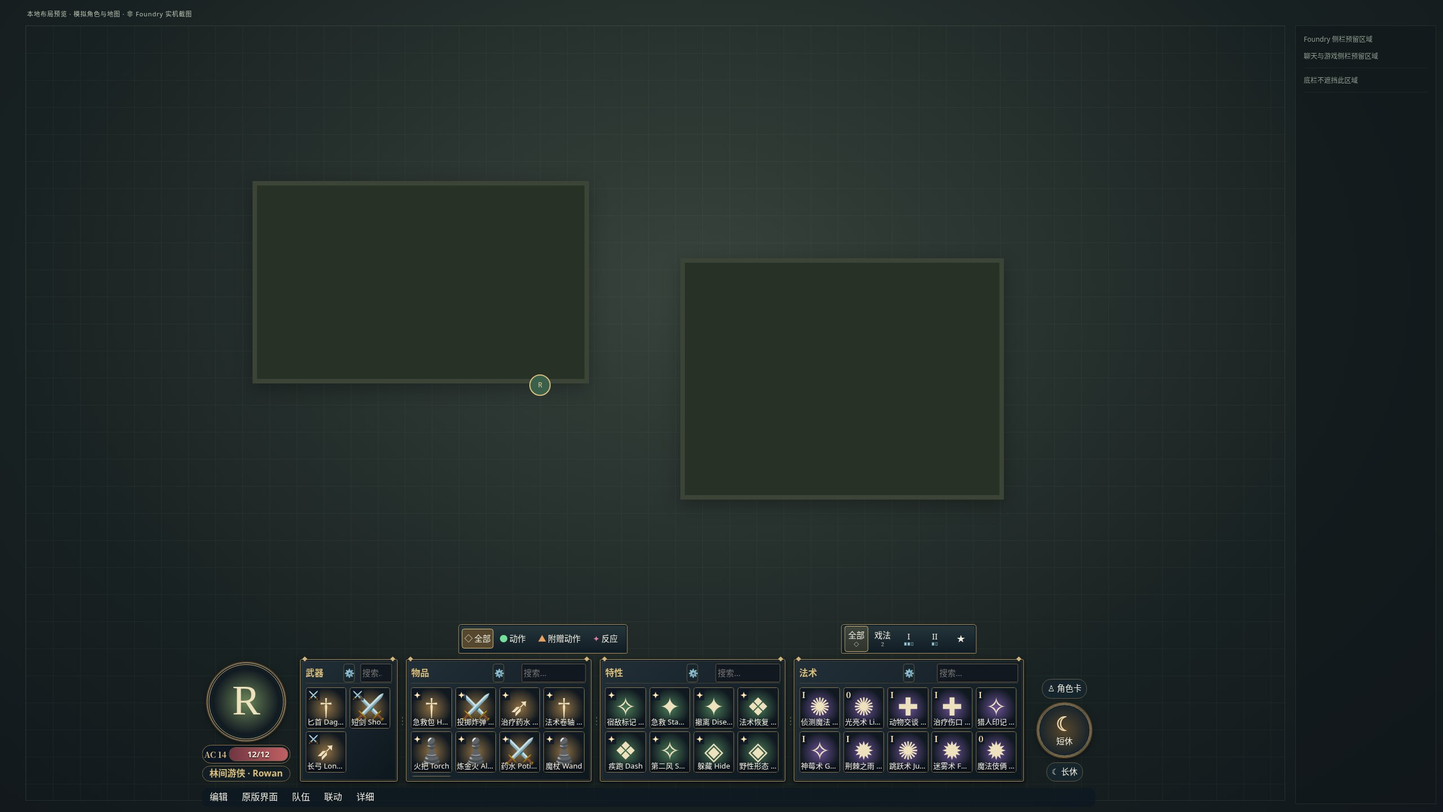
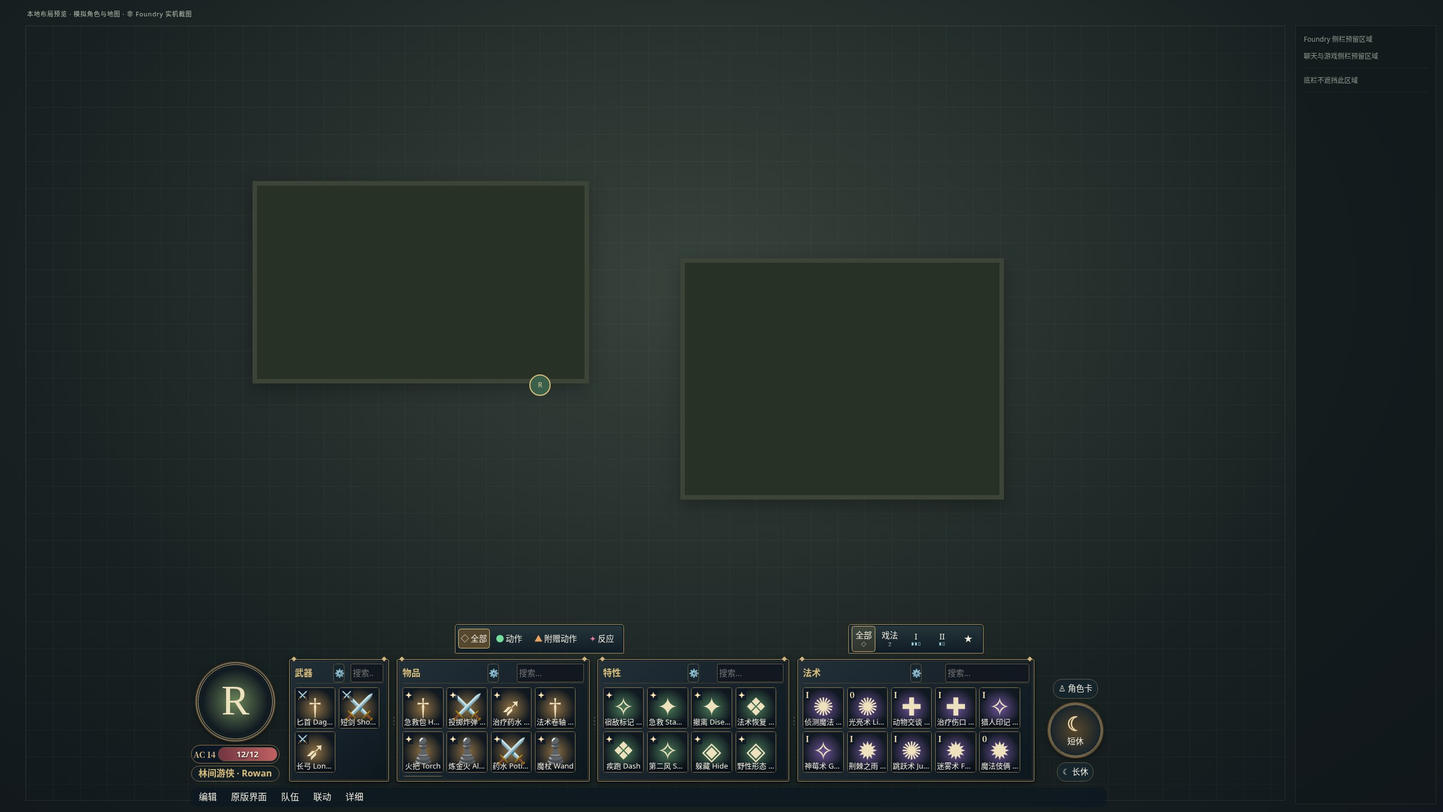
fix: preserve viewport HUD width for sparse actor contents

Changed region(s): [[0.125, 0.7812, 0.7812, 1.0], [0.5625, 0.75, 0.625, 0.8125]]

diff --git a/tests/reference-browser.js b/tests/reference-browser.js
@@ -62,7 +62,7 @@ export async function referenceBrowserTests({ test, assert, equal, flush }) {
         equal(user.writes.length, writes);
       } finally { delete entry.img; hud.tooltip.hide(); hud.render(); }
     });
-    await test('automatic widths follow actor counts, shrink sparse content and stay stable through search and action/level filters without writes', async () => {
+    await test('automatic widths follow actor counts while total width stays fixed for sparse content, inventory updates and filters without writes', async () => {
       const make = (id, itemCount, spellCount) => actor(id, [item('weapon', 'weapon'), item('feature', 'feat'),
         ...Array.from({ length: itemCount }, (_, i) => item(`item-${i}`, 'consumable', { activation: { type: 'action' } })),
         ...Array.from({ length: spellCount }, (_, i) => item(`spell-${i}`, 'spell', { level: i % 2 }))]);
@@ -72,9 +72,13 @@ export async function referenceBrowserTests({ test, assert, equal, flush }) {
         hud.setActor(make('many-items', 30, 1));
         let widths = sizes(); assert(widths[1] > widths[0] && widths[1] > widths[3]);
         const crowdedWidth = hud.root.getBoundingClientRect().width;
-        hud.setActor(make('few-items', 1, 1)); assert(hud.root.getBoundingClientRect().width < crowdedWidth);
+        hud.setActor(make('few-items', 1, 1)); assert(Math.abs(hud.root.getBoundingClientRect().width - crowdedWidth) < .6);
+        hud.setActor(actor('empty-character', []));
+        assert(Math.abs(hud.root.getBoundingClientRect().width - crowdedWidth) < .6);
+        assert(sizes().every(width => width > 0));
         hud.setActor(make('many-spells', 1, 30));
         widths = sizes(); assert(widths[3] > widths[1] && widths[3] > widths[0]);
+        assert(Math.abs(hud.root.getBoundingClientRect().width - crowdedWidth) < .6);
         hud.level = 1; hud.action = 'bonus'; hud.queries.Items = 'no match'; hud.render();
         sizes().forEach((width, i) => assert(Math.abs(width - widths[i]) < .6));
         // A live inventory change in the same actor must grow the appropriate group.
@@ -82,6 +86,7 @@ export async function referenceBrowserTests({ test, assert, equal, flush }) {
         const previous = widths[1];
         for (let i = 1; i <= 60; i++) hud.actor.items.set(`new-${i}`, item(`new-${i}`, 'consumable', { activation: { type: 'action' } }));
         hud.render(); assert(sizes()[1] > previous);
+        assert(Math.abs(hud.root.getBoundingClientRect().width - crowdedWidth) < .6);
         equal(user.writes.length, writes); equal(JSON.stringify(user.flags), flags);
       } finally { hud.setActor(hero, token); }
     });

diff --git a/tests/model.test.js b/tests/model.test.js
@@ -62,15 +62,19 @@ test('automatic widths reserve full icon columns and give the crowded category m
   assert.ok(spells.widths[3] > spells.widths[0] * 2);
   const items = autoColumnWidths([4, 40, 4, 4], geometry);
   assert.equal(items.widths[1], spells.widths[3]); assert.equal(items.widths[3], spells.widths[1]);
-  assert.ok(spells.used <= geometry.width && geometry.width - spells.used < 56);
-  for (let i = 0; i < 4; i++) assert.equal(spells.widths[i], 20 + spells.columns[i] * 50 + (spells.columns[i] - 1) * 6);
+  assert.ok(Math.abs(spells.used - geometry.width) < 1e-8);
+  for (let i = 0; i < 4; i++) assert.ok(spells.widths[i] >= 20 + spells.columns[i] * 50 + (spells.columns[i] - 1) * 6);
 });
 
-test('automatic layout shrinks sparse content, handles empty/narrow groups and rejects invalid geometry', () => {
+test('automatic layout keeps its full width for sparse, empty or crowded actors and rejects invalid geometry', () => {
   const options = { width: 1000, cell: 50, gap: 6, frame: [20, 20, 20, 20] };
   const counts = [0, 1, 2, 1], before = [...counts];
   const sparse = autoColumnWidths(counts, options);
-  assert.deepEqual(sparse.columns, [1, 1, 1, 1]); assert.ok(sparse.used < 400);
+  assert.deepEqual(sparse.columns, [1, 1, 1, 1]); assert.ok(Math.abs(sparse.used - options.width) < 1e-8);
+  const empty = autoColumnWidths([0, 0, 0, 0], options);
+  const crowded = autoColumnWidths([60, 80, 30, 100], options);
+  for (const plan of [empty, crowded]) assert.ok(Math.abs(plan.used - sparse.used) < 1e-8);
+  assert.ok(Math.max(...empty.widths) - Math.min(...empty.widths) < 1e-8);
   assert.deepEqual(counts, before);
   const narrow = autoColumnWidths([0, 100, 2, 30], { ...options, width: 100 });
   assert.ok(narrow.widths.every(w => w > 0)); assert.ok(narrow.used <= 100);

diff --git a/styles/video-hud.css b/styles/video-hud.css
@@ -213,7 +213,7 @@ body.bg3-video-hud-active #bg3-hotbar { display: none !important; }
   --video-rail: calc(36 * var(--video-unit));
   --video-left: 16px; --video-right: 12px;
   height: clamp(140px, calc(224 * var(--video-unit)), 35dvh);
-  width: var(--video-auto-width, min(calc(1120 * var(--video-unit)), calc((100vw - var(--video-left) - var(--video-right)) * .75 + 50 * var(--video-unit))));
+  width: min(calc(1120 * var(--video-unit)), calc((100vw - var(--video-left) - var(--video-right)) * .75 + 50 * var(--video-unit)));
   grid-template-columns: calc(108 * var(--video-unit)) minmax(0, 1fr) calc(76 * var(--video-unit));
   grid-template-rows: var(--video-rail) minmax(0, 1fr) var(--video-row);
   grid-template-areas: 'identity filters end' 'identity panels end' 'footer footer footer';
@@ -353,7 +353,7 @@ body.bg3-video-hud-active #bg3-hotbar { display: none !important; }
 .bg3-video-hud-spells > small { position: absolute; width: 1px; height: 1px; clip-path: inset(50%); overflow: hidden; }
 .bg3-video-hud-spells > small:focus-visible { position: fixed; width: auto; height: auto; max-width: 80vw; bottom: 100%; left: 10%; clip-path: none; padding: 6px; background: #14212b; z-index: 3; }
 @media (max-height: 500px), (max-width: 800px) {
-  .bg3-video-hud { width: var(--video-auto-width, calc(100vw - var(--video-left) - var(--video-right))); }
+  .bg3-video-hud { width: calc(100vw - var(--video-left) - var(--video-right)); }
   .bg3-video-hud-vitals { flex-direction: column; gap: 1px; }
   .bg3-video-hud-vitals .bg3-video-hud-health { flex: auto; width: 100%; }
 }

diff --git a/scripts/hud.js b/scripts/hud.js
@@ -387,10 +387,7 @@ export class VideoHUD {
     const geometryKey = JSON.stringify([innerWidth, innerHeight, devicePixelRatio, reserved, root.clientHeight, this.columnCounts, root.dataset.columnSizing]);
     if (!this.resizing && root.columnGeometryKey !== geometryKey) {
       root.columnGeometryKey = geometryKey;
-      // Measure the viewport-bounded budget afresh, never the previous compacted
-      // width: the next actor/item change must be able to grow again.
-      root.style.removeProperty('--video-auto-width');
-      const maximum = root.getBoundingClientRect().width;
+      // The root stays viewport-sized; count changes only redistribute its deck.
       const available = panels.getBoundingClientRect().width;
       if (available <= 0) return;
       const probe = document.createElement('div');
@@ -411,8 +408,6 @@ export class VideoHUD {
       const rows = Math.max(1, Math.floor((lists[0].clientHeight + gap) / (cell + gap)));
       // The allocator's gap is the grid gap. Panel gaps are reserved separately.
       const plan = autoColumnWidths(this.columnCounts, { width: available - panelGap * 3 + gap * 3, cell, gap, frame, rows });
-      const used = plan.used - gap * 3 + panelGap * 3;
-      root.style.setProperty('--video-auto-width', `${Math.min(maximum, maximum - available + used)}px`);
       if (root.dataset.columnSizing !== 'manual') {
         root.style.setProperty('--video-columns', plan.widths.map(width => `${width}px`).join(' '));
       }

diff --git a/scripts/model.js b/scripts/model.js
@@ -48,7 +48,7 @@ export function resizeColumns(widths, index, delta, minimum = 56) {
 }
 
 // Allocate whole square-icon columns. Extra space goes to the largest remaining
-// per-column load, capped once two rows can hold that group's visible items.
+// per-column load. Remaining capacity stays as empty space within the fixed budget.
 export function autoColumnWidths(counts, { width, cell, gap = 0, frame = [0, 0, 0, 0], rows = 2 }) {
   const n = GROUPS.length;
   if (![width, cell, gap, rows].every(Number.isFinite) || width <= 0 || cell <= 0 || gap < 0 || rows < 1
@@ -75,6 +75,12 @@ export function autoColumnWidths(counts, { width, cell, gap = 0, frame = [0, 0, 
     columns[best]++;
   }
   const widths = columns.map((count, i) => frame[i] + count * cell + (count - 1) * gap);
+  // The viewport owns the total width. Even sparse/empty actors consume the
+  // same budget; only the shares change, and unused icon positions may remain.
+  const spare = Math.max(0, room - widths.reduce((a, b) => a + b, 0));
+  const weights = load.map(count => Math.max(1, count));
+  const total = weights.reduce((a, b) => a + b, 0);
+  for (let i = 0; i < n; i++) widths[i] += spare * weights[i] / total;
   return { columns, widths, used: widths.reduce((a, b) => a + b, 0) + gap * (n - 1) };
 }
 

diff --git a/README.md b/README.md
@@ -2,7 +2,7 @@
 
 独立实现的 Foundry VTT V14／D&D5e 玩家操作界面，参考用户提供的视频与半成品交互。无需安装 BG3 HUD Core 或 BG3 HUD D&D5e；已安装时保留共存与返回能力。
 
-> **v0.1.11：按角色能力数量自动分配栏宽。** 内容多的栏获得更多图标列，较少的栏收窄，整体有视口上限。保留正方形图标和底部名称，搜索／环阶筛选不跳宽；手动拖动后可用 Home 恢复自动。GM 不选角色时安静返回原界面，无需分配角色。自动部署和自动实机测试关闭。
+> **v0.1.12：保持 HUD 总宽度。** 同一视口和侧栏条件下，角色能力数量只影响四栏内部分配，总数少或为空也不缩小整体，允许保留空位。保留正方形图标、底部名称、主动筛选与 GM 空闲无提示。自动部署和自动实机测试继续关闭。
 
 > **Status:** functional MVP with automated model/action/persistence and Chromium DOM tests. Not yet verified in a running Foundry VTT v14 / D&D5e 6.0.6 world. Manifest compatibility declares the intended target, not a completed in-game certification.
 
@@ -41,7 +41,7 @@ Read [AGENTS.md](./AGENTS.md) and [the MVP development brief](./docs/CODEX_TASK.
 4. GM 和 Player 均自动启用。**原版界面** 可在当前页面临时返回；Token 工具栏的 **临时切换原版／BG3 界面** 可恢复，刷新页面自动恢复。也可为此临时操作设置快捷键。
 5. Select an owned token; with no controlled token, the assigned owned character is used. Selecting only unowned tokens hides this HUD. During canvas teardown the original HUD is restored.
 
-Use the stable [module.json installation/update address](https://github.com/DraculaCradle/bg3-video-hud/releases/latest/download/module.json) for v0.1.11. It includes the reference-layout revision and weapon targeting fix, standalone operation and scrollable choice dialogs. Tagged releases provide ZIP, manifest, installer and checksums; publishing does not update the running server. Full live HUD acceptance remains incomplete; automatic live testing is stopped at the user's request.
+Use the stable [module.json installation/update address](https://github.com/DraculaCradle/bg3-video-hud/releases/latest/download/module.json) for v0.1.12. It includes the reference-layout revision and weapon targeting fix, standalone operation and scrollable choice dialogs. Tagged releases provide ZIP, manifest, installer and checksums; publishing does not update the running server. Full live HUD acceptance remains incomplete; automatic live testing is stopped at the user's request.
 
 For Linux server installation or upgrades, use the [deployment guide](docs/DEPLOYMENT.md) and `tools/deploy_linux.py`. It accepts the real user data directory, checks permissions/dependencies, verifies a backup before replacement, and rolls back caught failures. Release assets also include the standalone script and SHA-256 checksums. No server path is assumed, and server deployment / ModsTest validation have not yet been performed.
 
@@ -49,7 +49,7 @@ For Linux server installation or upgrades, use the [deployment guide](docs/DEPLO
 
 中文化与本轮功能由 v0.1.2 发布。模组自身控件、设置、提示与可访问名称现使用中文。角色、物品名及系统弹窗采用 Foundry／D&D5e 提供的内容，不自动修改世界语言或重命名数据。地图目标选择已按用户确认的单体点选／多目标范围选择实现，尚待 Foundry 实机验收；详见[中文界面与视频提供说明](docs/CHINESE_UI.md)。
 
-- 底栏按实际 CSS 视口自动调整，720P～4K 有界增大；头像、四栏和右侧操作组独立，按真实侧栏宽度避让。默认按四栏可显示项目数量自动分配整列宽度，内容少时整体收窄；搜索／动作／环阶筛选保持宽度稳定。拖动／方向键可保存手动比例，双击／Home 恢复按数量自动分配。名称和环阶显示在图标上，完整说明通过悬停／焦点查看；每栏独立滚动。各档实测与原创预览见 [自适应说明](docs/COMPACT_HUD.md)。
+- 底栏按实际 CSS 视口自动调整，720P～4K 有界增大；头像、四栏和右侧操作组独立，按真实侧栏宽度避让。默认按四栏可显示项目数量自动分配整列宽度，总宽只随视口／侧栏变化，不随角色能力数收窄；数量不足保留空位。搜索／动作／环阶筛选保持栏宽稳定。拖动／方向键可保存手动比例，双击／Home 恢复按数量自动分配。名称和环阶显示在图标上，完整说明通过悬停／焦点查看；每栏独立滚动。各档实测与原创预览见 [自适应说明](docs/COMPACT_HUD.md)。
 - 普通单一活动和无来源选择的戏法点击后直接进入目标／原生流程；单一活动的等级法术直接显示环阶和来源；多活动物品仍明确选择。底栏 **详细** 可打开完整活动、重复次数、手动分配和原生模式选项；需要选择的活动、环阶／来源和手动分配都在独立弹窗中；Esc、关闭按钮和取消均可退出，系统流程开始前会关闭自有弹窗。单体点选／多目标框选保持原设计，实际配置、掷骰及消费仍由系统处理。See [targeting and cancellation boundaries](docs/TARGETING.md).
 - **武器 / 物品 / 特性 / 法术** 为四个独立栏位。物品与特性只显示具备主动活动的项目；普通铠甲、盾牌、弹药、宝石、羊皮纸及纯被动特性隐藏。主动魔法物品、卷轴、反应和无动作消耗的能力保留；次数耗尽本身不隐藏主动能力。职业、背景等资料及角色卡数据不变，法术列表规则保持。 Level tabs include cantrips (0). Regular and pact slots are separate read-only pools, including zero remaining slots. Innate/unprepared spells are not silently removed: the system remains responsible for eligibility and consumption.
 - **动作 / 附赠动作 / 反应** filter activities and show locally observed native uses in the current combat turn position. They are not authoritative remaining-action limits and never enforce combat rules.

diff --git a/docs/COMPACT_HUD.md b/docs/COMPACT_HUD.md
@@ -1,26 +1,26 @@
-# 720P～4K 自适应参考布局（v0.1.11）
+# 720P～4K 自适应参考布局（v0.1.12）
 
-本版按原作者实际底栏结构独立重做：圆形头像／AC 和生命胶囊、按数量分配宽度的武器／物品／特性／法术四块金边栏、悬浮资源条、右侧圆形操作组。整体收窄并居中，测量实际侧栏避让。默认自动分配，手动比例可拖动／键盘调整并按用户、角色保存；不是固定为某个物理分辨率。
+本版按原作者实际底栏结构独立重做：圆形头像／AC 和生命胶囊、按数量分配宽度的武器／物品／特性／法术四块金边栏、悬浮资源条、右侧圆形操作组。整体宽度按视口有界缩放并居中，测量实际侧栏避让；同一视口下不受角色能力数量影响。默认自动分配，手动比例可拖动／键盘调整并按用户、角色保存；不是固定为某个物理分辨率。
 
 按有效 CSS 视口同时限制宽、高、图标、头像、字号和间距；原始 720P～4K 可以显示两排技能。图标高度约 32～90px，基础字号 11～22px，有上下限。更多物品在各栏内部滚动，不继续增加 HUD 高度。底部名称、环阶／余量保留在格子上；有图标时隐藏图标背后的大字占位，图片失败恢复文字回退。格子固定为正方形，图片等比放入，完整名称及说明可以悬停或键盘查看。
 
 分组齿轮在独立弹窗中管理显示与排序；活动、施法方式、来源和手动目标分配也在弹窗。全局“编辑”仍保留紧凑底栏编辑入口。确认内容不挤占技能栏。
 
-按未隐藏且符合主动规则的条目数计算，各栏至少留一个图标列；优先把整列空间给每列承载条目最多的分类，达到可见行数的容量后不继续扩宽。空间不足保留滚动，数量少时整体收窄；边框／内距／滚动条单独预留，减少栏内不完整列的尾部空白。搜索、动作和法术等级筛选不触发数量重算；物品增删、隐藏设置、角色切换和视口变化会重新分配。
+按未隐藏且符合主动规则的条目数计算，各栏至少留一个图标列；优先把整列空间给每列承载条目最多的分类，满足基本容量后，把剩余空间按数量权重分配为可保留的空位。空间不足保留滚动，数量少或为空也不缩小整体；边框／内距／滚动条单独预留，总宽预算始终用满，允许空图标位置和尾部空白。搜索、动作和法术等级筛选不触发数量重算；物品增删、隐藏设置、角色切换和视口变化会重新分配。
 
 旧三栏／四栏 ratios 仍保留在原用户数据中，但默认不覆盖新版自动分配，不自动迁移写入。新拖动／方向键操作会显式记录 columnSizing=manual；双击／Home 删除此手动模式和比例，恢复自动。没有角色或 GM 未选择时不强制显示空角色栏。
 
 ## 本地实际测量
 
-宽度依赖角色数量，下表是本次模拟数据的近似值。以下为原创模拟角色，带 250px 模拟侧栏，DPR=1 的 CSS px。不是 Foundry 实机或显示器认证。图标宽度随分栏可用空间变化，表中列出高度。
+总宽度由视口和侧栏决定，下表是本次模拟数据的近似值；相同条件下切换角色或改变数量不会改变总宽。以下为原创模拟角色，带 250px 模拟侧栏，DPR=1 的 CSS px。不是 Foundry 实机或显示器认证。图标宽度随分栏可用空间变化，表中列出高度。
 
 | CSS 视口 | HUD 宽×高 | 图标高 | 基础字号 | 预览 |
 | --- | --- | --- | --- | --- |
-| 1280×720 | 773×224 | 50 | 12.0 | [预览](images/responsive-1280x720.jpg) |
-| 1366×768 | 854×231 | 52 | 12.4 | [预览](images/responsive-1366x768.jpg) |
-| 1920×1080 | 1275×274 | 61 | 14.7 | [预览](images/responsive-1920x1080.jpg) |
-| 2560×1440 | 1585×325 | 72 | 17.4 | [预览](images/responsive-2560x1440.jpg) |
-| 3840×2160 | 1981×414 | 90 | 22.0 | [预览](images/responsive-3840x2160.jpg) |
+| 1280×720 | 793×224 | 50 | 12.0 | [预览](images/responsive-1280x720.jpg) |
+| 1366×768 | 859×231 | 52 | 12.4 | [预览](images/responsive-1366x768.jpg) |
+| 1920×1080 | 1284×274 | 61 | 14.7 | [预览](images/responsive-1920x1080.jpg) |
+| 2560×1440 | 1624×325 | 72 | 17.4 | [预览](images/responsive-2560x1440.jpg) |
+| 3840×2160 | 2072×414 | 90 | 22.0 | [预览](images/responsive-3840x2160.jpg) |
 
 720P 的默认外框高约 224px，约占31%；其透明部分不会遮成一整块实心面板。4K 约414px，占19%，更大视口停止放大。旧版188px布局不是本版的固定目标；这次使用接近原版的两排有名称技能格。很矮的缩放后视口优先留下地图，通过分组滚动访问更多格子。
 

diff --git a/docs/TEST_REPORT.md b/docs/TEST_REPORT.md
@@ -1,6 +1,6 @@
 # 自动检查报告 — 2026-11-08（香港时间）
 
-范围：v0.1.11 按数量自动分配栏宽与 GM 空闲不警告，回归正方形图标、主动筛选、自动启用和目标捕获。仅开发环境模拟文档／离线Chromium；未连接Foundry账号。自动部署及自动实机测试保持关闭，用户人工验收。
+范围：v0.1.12 保持 HUD 总宽，数量只影响内部四栏分配；回归 GM 空闲、正方形图标、主动筛选和目标捕获。仅开发环境模拟文档／离线Chromium；未连接Foundry账号。自动部署及自动实机测试保持关闭，用户人工验收。
 
 | 检查 | 结果 | 证据边界 |
 | --- | --- | --- |
@@ -19,10 +19,12 @@
 
 本次新增重点：
 
-- 物品多／法术多时对应栏获得更多整列，稀疏角色整体收窄；窄视口几何预算不溢出，异常输入有检查。自动计算不写 flags，旧比例只读保留；手动调整有显式标记，Home 返回自动。
+- 不再写入或读取 Root 的 --video-auto-width；模型把剩余空间留在固定预算内。原有“稀疏即缩小”的断言改为固定预算，真实 DOM 也覆盖全空角色；视口矩阵逐档对比稀疏与拥挤角色总宽相同。
+
+- 物品多／法术多时对应栏获得更多整列，稀疏、全空、拥挤角色的总宽保持一致；窄视口几何预算不溢出，异常输入有检查。自动计算不写 flags，旧比例只读保留；手动调整有显式标记，Home 返回自动。
 - 实际 DOM 验证角色切换、同角色新增物品后重新分配、搜索／动作／等级筛选不跳宽，以及 GM 不分配角色、取消选择时无通知且原 HUD 可用。
-- 自动模式下所有有效视口检查栏内尾部余量不足12 CSS px（预留滚动条／舍入）；保持整列方形和可达控件。几何完成后恢复滚动，九环筛选和真实滚轮回归通过。
-- 更新五档原创模拟预览与弹窗，以下高度不随物品数量增长：720P约224px、4K约414px；宽度随当前角色数量变化。
+- 所有有效视口对照少量与大量能力的总宽差小于0.6 CSS px；允许空图标位置与尾部余量；保持整列方形和可达控件。几何完成后恢复滚动，九环筛选和真实滚轮回归通过。
+- 更新五档原创模拟预览与弹窗，以下高度不随物品数量增长：720P约224px、4K约414px；总宽度随视口和侧栏变化，不随角色数量变化。
 
 - 透明图标存在时隐藏背后的 initial 大字，不隐藏底部名称；ARIA、title、键盘焦点后的完整 tooltip 保留，角标不隐藏。图片失败后恢复文字回退，不写布局 flags。
 - 图标按钮固定 1:1，网格不再用 1fr 把它横向铺满，图片等比 contain；所有视口实测按钮宽高差小于0.6 CSS px，非正方形原图也装入正方形框。

diff --git a/docs/MANUAL_TESTS.md b/docs/MANUAL_TESTS.md
@@ -99,9 +99,14 @@ Release sign-off requires all applicable required checkboxes above, with recorde
 - 用透明 PNG、长条武器图和普通方形图核实：背后的大字占位隐藏，底部物品名称仍显示，次数／环阶角标保留。图片失效时可见文字回退。
 - 调整栏宽并切换720P～4K有效视口，图标格子宽高保持一致、图片等比显示，悬停和键盘焦点可查看完整名称／说明；编辑按钮、滚动和物品使用继续可达。
 
-## v0.1.11 自动栏宽与 GM 取消选择
+## v0.1.11 自动栏宽与 GM 取消选择（历史；总宽规则由 v0.1.12 替代）
 
 - 在物品多／法术少、物品少／法术多、各栏均少三类角色间切换：对应拥挤栏变宽，稀疏角色整体收窄，视口内不足部分仍滚动。增删条目、隐藏条目后重排；不产生用户 flags 写入。
 - 搜索、动作筛选和环阶筛选时栏宽保持稳定；列表滚动、九环筛选和焦点不丢失。窄栏编辑按钮和聚焦展开搜索可用；图标正方形、底部名称继续保留。
 - 手动拖动进入保存比例模式，Home／双击恢复自动，同时保留隐藏／排序；旧比例不会阻挡新版默认自动，不做迁移写入。
 - GM 不分配任何角色，选择 Token 后取消全部选择：HUD 隐藏、原界面恢复、不弹权限提示；再次选择角色可正常显示。
+
+## v0.1.12 同视口保持总宽
+
+- 固定窗口、缩放和侧栏状态，依次选择大量能力、少量能力、没有物品能力的测试角色。HUD 总宽和左右边界应一致，四栏内部仍可根据数量改变份额，空白允许保留。
+- 同一角色增加／删除、隐藏能力，或搜索／筛选：总宽不变。改变视口／侧栏才按既有规则改变总宽；图标保持正方形，滚动和手动调整仍可用。

diff --git a/docs/API_NOTES.md b/docs/API_NOTES.md
@@ -78,3 +78,7 @@ PIXI/Foundry 的画布事件可能先在 document 捕获阶段处理；在 `#boa
 新 User 布局叶 `columnSizing: manual` 仅由明确拖动／键盘调整写入，搭配 ratios 使用；没有此标记（含旧 ratios）默认自动，不主动迁移旧数据。Home／双击恢复自动时仅移除此用户、此角色的 sizing 与 ratios，保留隐藏、顺序等字段。自动计算不写文档。
 
 GM 没有受控 Token 且未分配角色时，HUD 安静清理，原界面恢复，status.reason=gm-idle；不弹 OWNER 警告，也不要求 GM 分配角色。玩家权限检查与实际选中无角色 Token 的检查保持。
+
+## v0.1.12 固定总宽预算
+
+v0.1.11 的整体收窄规则被用户新要求替代。Root 宽度恢复仅由 CSS 有效视口／侧栏／上限决定，删除 --video-auto-width 的读写。autoColumnWidths 先分配基本整列，再按数量权重分配剩余空白；返回的 used 始终等于输入预算，稀疏／全空角色也是如此。手动比例仍只重新分配内部空间。不要为了消除空位缩小 Root。搜索稳定、滚动恢复、图标正方形和 GM 空闲守卫保持。

diff --git a/docs/releases/v0.1.12.md b/docs/releases/v0.1.12.md
@@ -1,0 +1,11 @@
+# v0.1.12 — 能力少时保留空位，HUD 总宽不缩小
+
+按用户澄清，数量自适应只改变武器／物品／特性／法术四栏的内部空间分配。HUD 总宽仍由视口、侧栏和既有上限决定；能力总数少或为空时不再缩小整体，允许空位和尾部空白。
+
+内容多的分类仍获得更多空间；基本图标列分配后，余量按数量权重留在各栏。搜索、筛选、增删项目和切换角色不改变同一视口下的总宽，手动分隔条也只调整内部比例。
+
+保留正方形图标、底部名称、透明图标大字处理、主动筛选、滚动／焦点恢复、自动启用与 GM 空闲不警告。
+
+332项离线检查及原创预览。自动部署与自动实机测试关闭，没有登录或修改服务器。通过原manifest地址手动更新并重新载入客户端即可。
+
+安装地址：https://github.com/DraculaCradle/bg3-video-hud/releases/latest/download/module.json
